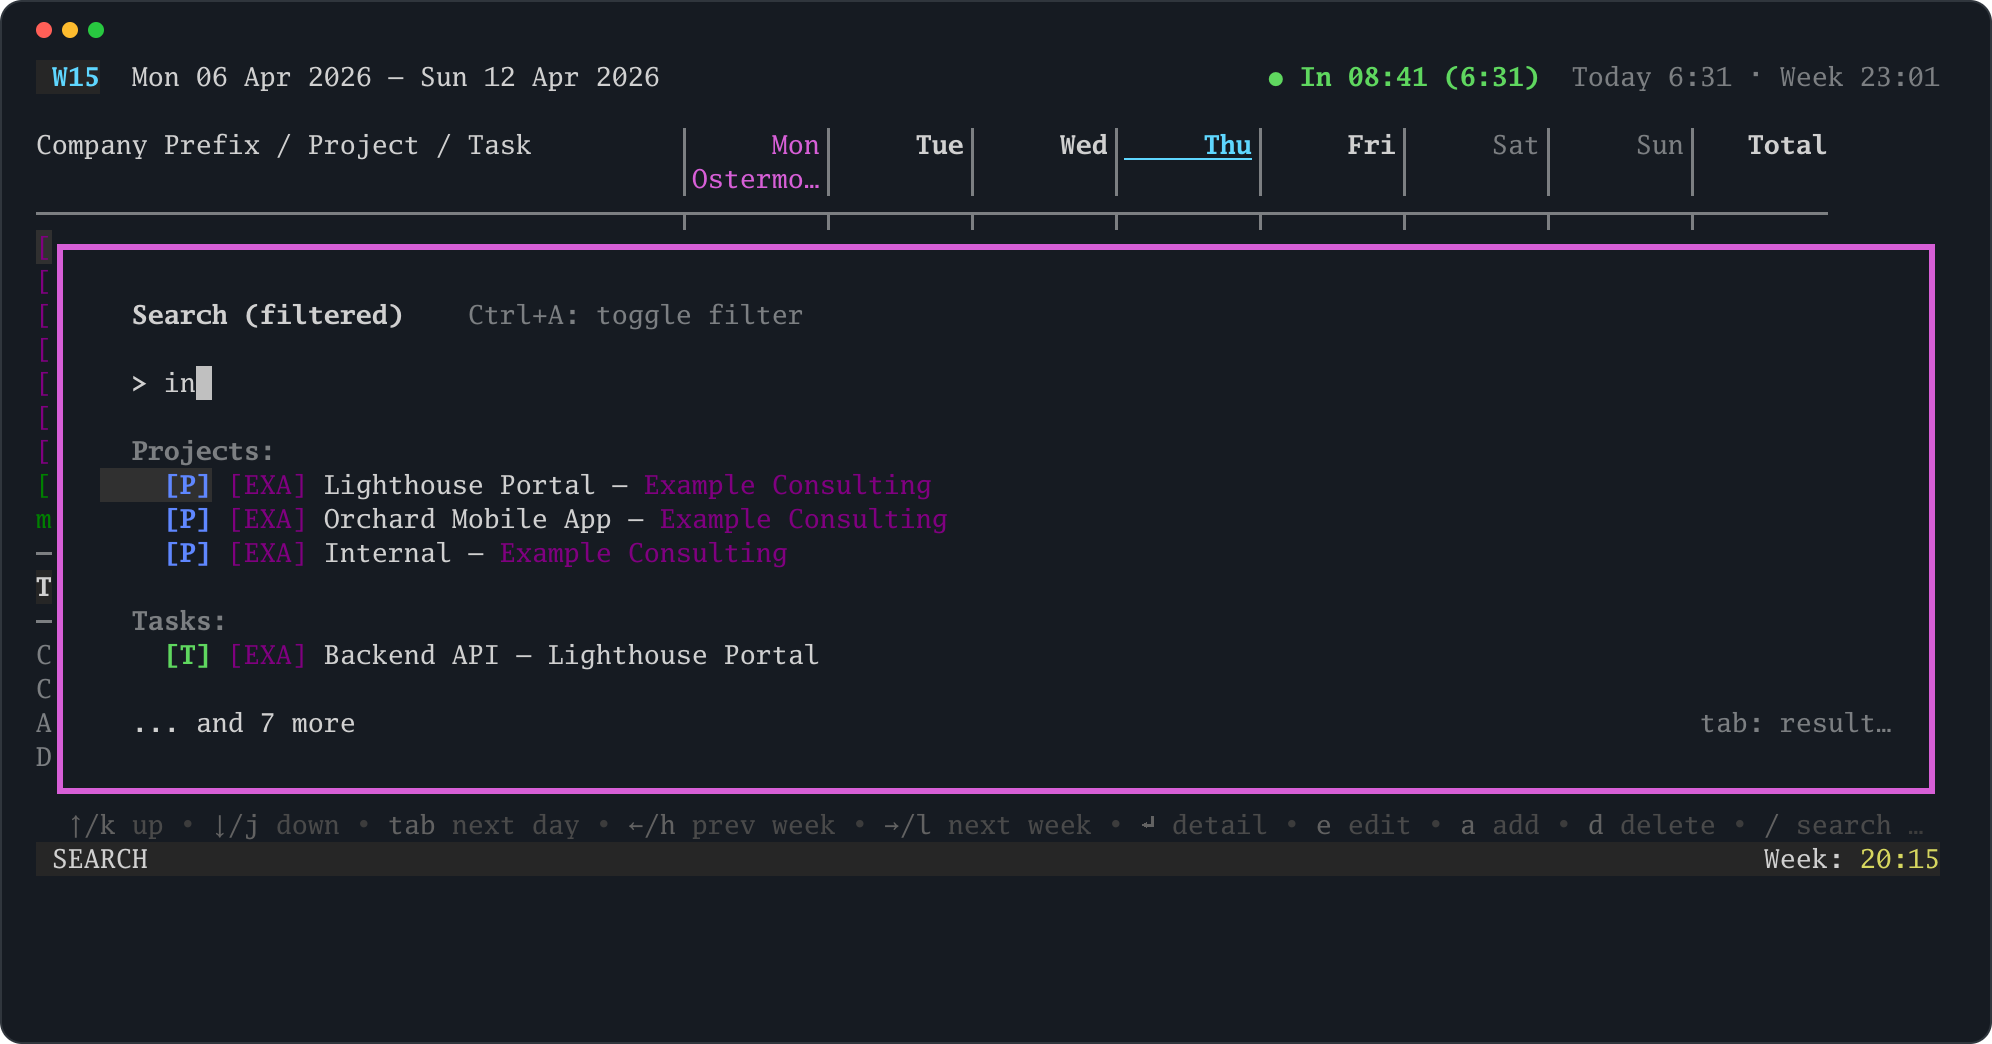
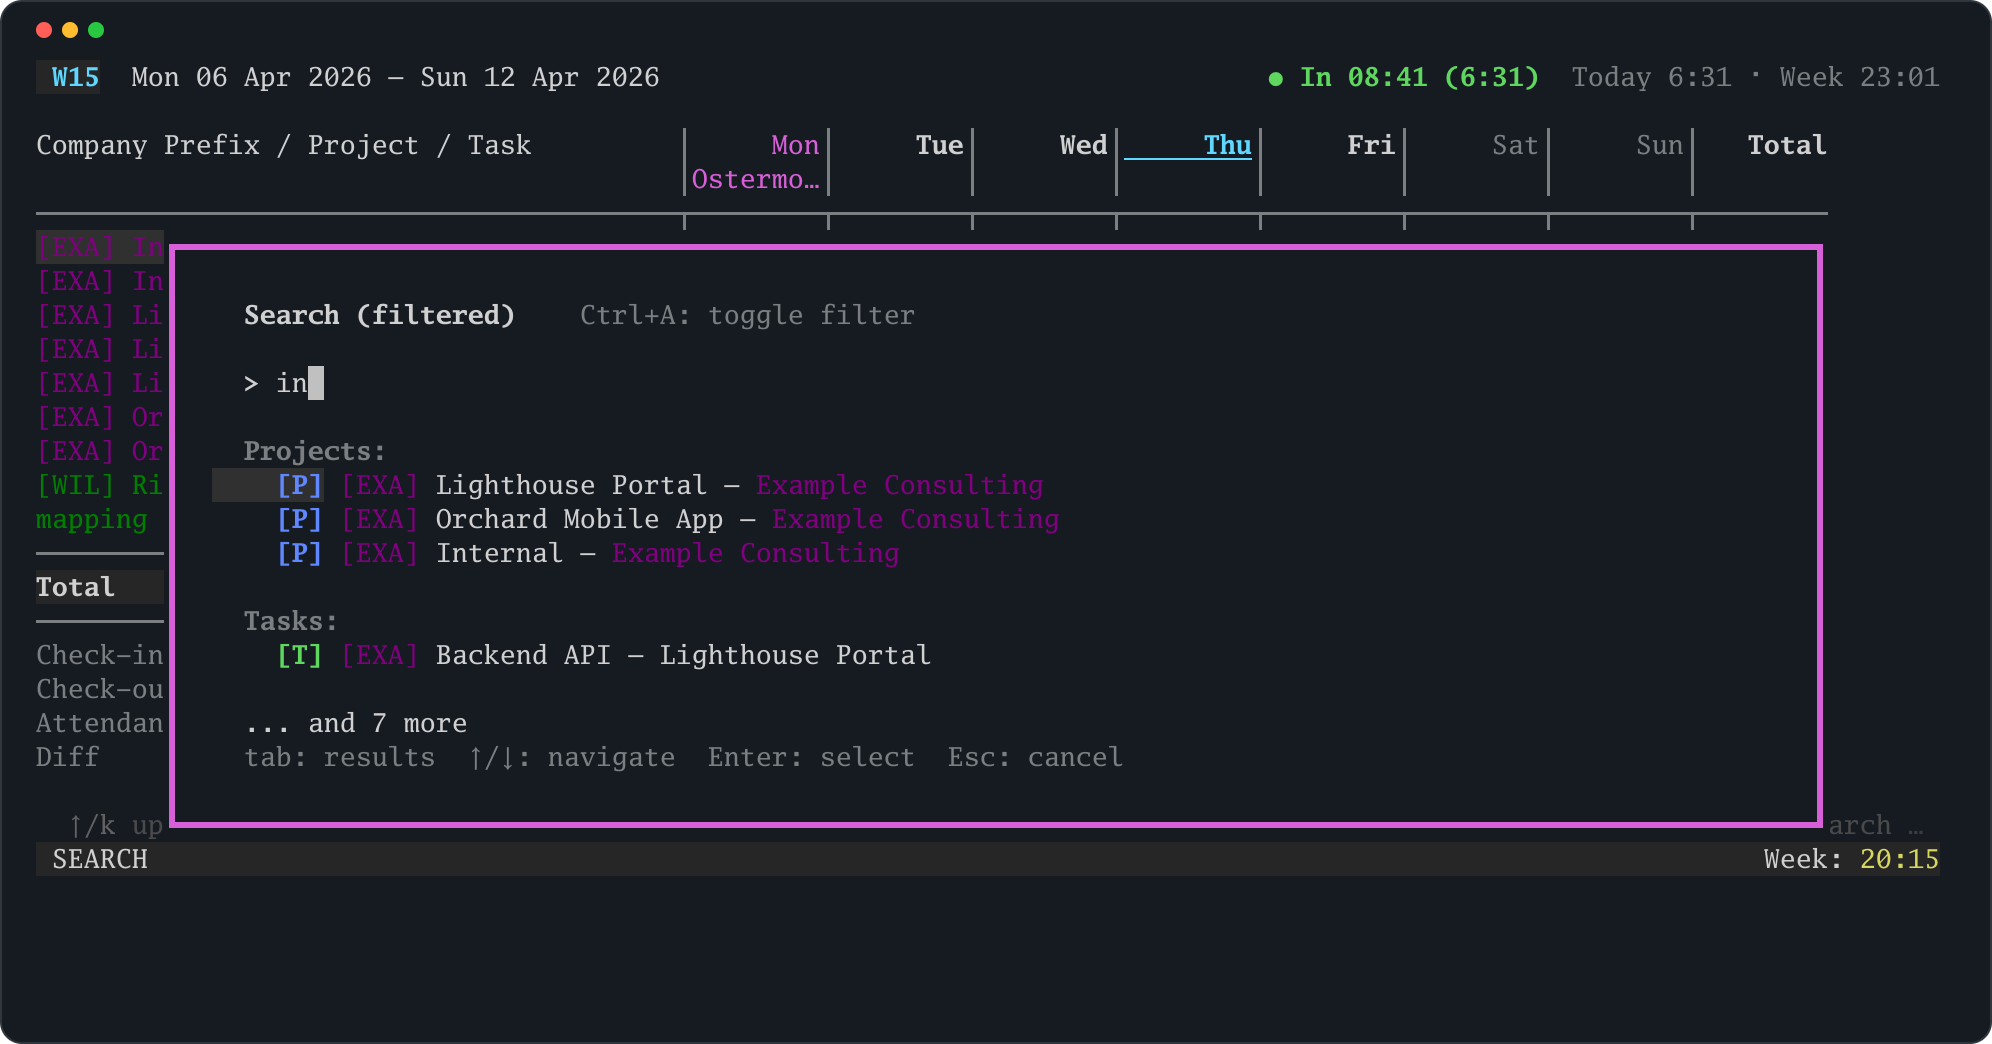
fix(tui): lay out the search overlay for the available width
The "... and N more" line embedded a newline in a padded line, doubling its
width; the later cut-off then truncated the hint. Build it as proper lines and
size the inner width from the terminal width minus frame and margin. Keep the
truncation in RenderDetailOverlay as a safety net.

diff --git a/internal/tui/render_test.go b/internal/tui/render_test.go
@@ -8,6 +8,7 @@ import (
 	"time"
 
 	"charm.land/bubbles/v2/spinner"
+	"charm.land/bubbles/v2/textinput"
 	tea "charm.land/bubbletea/v2"
 	"charm.land/lipgloss/v2"
 	"github.com/charmbracelet/x/ansi"
@@ -403,6 +404,33 @@ func TestView_LinesFitTerminalWidth(t *testing.T) {
 		for _, state := range []uiState{stateGrid, stateDetail, stateEdit, stateSearch, stateHelp} {
 			if w := maxWidth(build(width, state).View().Content); w > limit {
 				t.Errorf("state %d at width %d: frame is %d cells wide, limit %d", state, width, w, limit)
+			}
+		}
+	}
+}
+
+// Issue #105: the search overlay is laid out for the terminal width, not cut
+// afterwards: with more results than fit, the hint line must be complete.
+func TestRenderSearchOverlay_HintCompleteAtTerminalWidth(t *testing.T) {
+	var items []searchItem
+	for i := 0; i < 30; i++ {
+		items = append(items, searchItem{Kind: "project", Name: fmt.Sprintf("Project %d", i), Extra: "Corp", Company: "Corp"})
+	}
+	for _, width := range []int{80, 120} {
+		for _, focus := range []focusTarget{focusInput, focusList} {
+			out := renderSearchOverlay(textinput.New(), items, 0, searchReady, true, nil, spinner.New(), width, 40, nil, focus, DefaultKeyMap())
+			lines := strings.Split(ansi.Strip(out), "\n")
+			hint := lines[len(lines)-1]
+			if !strings.Contains(hint, "Esc: cancel") || strings.Contains(hint, "…") {
+				t.Errorf("width %d focus %d: incomplete hint %q", width, focus, hint)
+			}
+			for i, l := range lines {
+				if w := ansi.StringWidth(l); w > width-8 {
+					t.Errorf("width %d: overlay line %d is %d cells, available %d", width, i, w, width-8)
+				}
+			}
+			if strings.Count(out, "more") != 1 {
+				t.Errorf("width %d: expected exactly one 'more' line", width)
 			}
 		}
 	}

diff --git a/internal/tui/render.go b/internal/tui/render.go
@@ -601,6 +601,11 @@ func renderSearchOverlay(input textinput.Model, items []searchItem, cursor int, 
 	if innerWidth < 40 {
 		innerWidth = 40
 	}
+	// Never lay out wider than the terminal leaves room for: width minus the
+	// box frame (border + padding) and one cell of margin on each side.
+	if avail := width - searchBoxStyle.GetHorizontalFrameSize() - 2; width > 0 && innerWidth > avail {
+		innerWidth = max(avail, 20)
+	}
 
 	// Fixed content area: use ~60% of terminal height for the overlay inner
 	// content (border + padding consume ~6 lines on top of this).
@@ -678,8 +683,11 @@ func renderSearchOverlay(input textinput.Model, items []searchItem, cursor int, 
 		for i, item := range items {
 			if shown >= maxVisible {
 				remaining := len(items) - i
-				b.WriteString(padLine(fmt.Sprintf("\n  ... and %d more", remaining)))
-				lines++
+				b.WriteString(padLine(""))
+				b.WriteString("\n")
+				b.WriteString(padLine(fmt.Sprintf("  ... and %d more", remaining)))
+				b.WriteString("\n")
+				lines += 2
 				break
 			}
 
